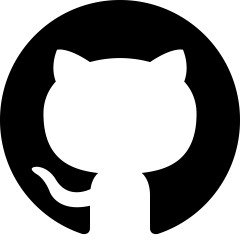
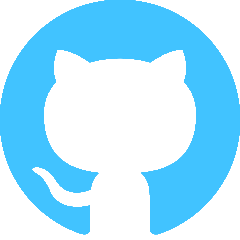
Inicio do meu portfólio de aprendizado

diff --git a/style.css b/style.css
@@ -1,243 +1,47 @@
-@charset "UTF-8";
-@import url('https://fonts.googleapis.com/css2?family=Poppins:ital,wght@0,200;0,400;0,500;0,600;0,700;0,800;0,900;1,300&display=swap');
+@import url('https://fonts.googleapis.com/css2?family=Poppins:ital,wght@0,100;0,300;0,400;0,600;0,700;0,800;0,900;1,100;1,500&display=swap');
 
 *{
     margin: 0;
     padding: 0;
-    box-sizing: border-box;
+    color: white;
     font-family: 'Poppins', sans-serif;
 }
-html{
-    scroll-behavior: smooth;
+body{
+    background-color: #0E1212;
 }
-header{
-    position: absolute;
-    top: 0;
-    left: 0;
+header .logo h4{
+    font-size: 25px;
+    color: #41C3FF;
+}
+
+header .response{
     width: 100%;
+    display: flex;
+    justify-content: center;
+}
+header .container{
+    padding: 0px 40px 0px 40px;
+    height: 60px;
+    width: 1680px;
     display: flex;
     justify-content: space-between;
-    padding: 40px 100px;
-    z-index: 10000;
-    transition: 0.6s;
-}
-header .logo{
-    position: relative;
-    font-weight: 700;
-    color: #40c3ff;
-    text-decoration: none;
-    font-size: 2em;
-    text-transform: uppercase;
-}
-header #toggle{
-    position: relative;
-    width: 30px;
-    height: 30px;
-    cursor: pointer;
-}
-header #toggle:before{
-    content: '';
-    position: absolute;
-    top: 7px;
-    width: 100%;
-    height: 2px;
-    background-color: #fff;
-}
-header #toggle:after{
-    content: '';
-    position: absolute;
-    bottom: 7px;
-    width: 100%;
-    height: 2px;
-    background-color: #fff;
-}
-.banner.active header #toggle::before{
-    top: 50%;
-    left: 50%;
-    transform: translate(-50%, -50%) rotate(45deg);
-}
-.banner.active header #toggle::after{
-    top: 50%;
-    left: 50%;
-    transform: translate(-50%, -50%) rotate(-45deg);
-}
-.banner{
-    position: relative;
-    width: 100%;
-    min-height: 100vh;
-    padding: 100px;
-    background: url(imagens/background2.jpg);
-    background-size: cover;
-    display: flex;
     align-items: center;
-    transition: 0.5s;
-    z-index: 2;
 }
-.banner.active{
-    transform: translate(-400px);
-}
-.sobre img{
-    border-radius: 10px;
-}
-.sobre{
-    position: relative;
-    width: 100%;
-    min-height: 100vh;
-    padding: 50px;
-    background: url(imagens/bg-sobremim.jpg);
-    background-size: cover;
+header ul{
     display: flex;
+    justify-content: space-between;
     align-items: center;
-    transition: 0.5s;
-    z-index: 2;
+    width: 500px;
+    list-style-type: none;
 }
-.sobre{
-    color: #000;
-    margin-left: auto;
-    margin-right: auto;
+header img{
+    width: 25px;
+    height: 25px;
 }
-#sobreimg1{
-    margin: 0 30px 0 0;
-    float: left;
-    width: 450px;
-}
-.content2{
-    margin: auto;
-    max-width: 800px;
-    text-align: justify;
-    display: inline;
-}
-.content2txt{
-    margin-top: 20px;
-} 
-#navigation{
-    position: fixed;
-    top: 0;
-    right: 0;
-    width: 400px;
-    height: 100vh;
-    background: #40c3ff;
-    z-index: 1;
-    display: grid;
-    place-items: center;
-    transition: 0.5s;
-}
-#navigation.active{
-    right: 0;
-}
-#navigation ul{
-    position: relative;
-    display: flex;
-    flex-direction: column;
-}
-#navigation ul li{
-    list-style: none;
-}
-#navigation ul li a{
-    color: #fff;
+
+header ul li a{
     text-decoration: none;
-    display: inline-block;
-    font-size: 2em;
-    font-weight: 600;
-    text-transform: uppercase;
 }
-.content{
-    max-width: 600px;
-}
-.content h2{
-    color: #fff;
-    font-size: 2.5em;
-}
-.content h2 span{
-    color: #40c3ff;
-    font-size: 1.2em;
-}
-.content p{
-    font-size: 1.2em;
-    color: #fff;
-    font-weight: 300;
-}
-.content a{
-    position: relative;
-    display: inline-block;
-    margin-top: 20px;
-    background: #fff;
-    color: black;
-    padding: 10px 30px;
-    text-decoration: none;
-    font-size: 1.2em;
-    font-weight: 500;
-}
-.sci{
-    position: absolute;
-    display: flex;
-    flex-direction: column;
-    right: 100px;
-}
-.sci li{
-    list-style: none;
-}
-.sci li a{
-    position: relative;
-    display: grid;
-    place-items: center;
-    width: 50px;
-    height: 50px;
-    text-decoration: none;
-    border: 1px solid #fff;
-    margin: 10px 0 0;
-}
-.sci li a:hover{
-    background: #fff;
-}
-.sci li a img{
-    max-width: 20px;
-    filter: invert(1);
-}
-@media (max-width: 767px){
-    .content {
-        max-width: 200px;
-    }
-    .content p{
-        text-align: left;
-    }
-    .mediatype{
-        height: 100px;
-    }
-    #sobreimg1{
-        max-width: 230px;
-    }
-    header{
-        padding: 20px 50px;
-    }
-    .banner {
-        padding: 100px 50px 150px;
-    }
-    .banner h2{
-        font-size: 1.8em;
-    }
-    .banner .content a,
-    .banner .content p{
-        font-size: 1em;
-    }
-    .banner.active{
-        transform: translate(-250px);
-    }
-    #navigation{
-        width: 250px;
-    }
-    #navigation ul li a{
-        font-size: 1.5em;
-        margin: 5px 0;
-    }
-    .sci{
-        position: absolute;
-        bottom: 50px;
-        right: initial;
-        flex-direction: row;
-    }
-    .sci li a{
-        margin: initial;
-        margin-right: 10px;
-    }
+header ul li a:hover{
+    color: #41C3FF;
 }

diff --git a/index.html b/index.html
@@ -1,80 +1,31 @@
 <!DOCTYPE html>
-<html lang="en">
+<html lang="pt-br">
 <head>
     <meta charset="UTF-8">
     <meta http-equiv="X-UA-Compatible" content="IE=edge">
     <meta name="viewport" content="width=device-width, initial-scale=1.0">
-    <meta name="description" content="meu portfólio pessoal onde procuro demonstrar minhas habilidades e falar um pouco sobre mim.">
-    <title>MarkosComK</title>
     <link rel="stylesheet" href="style.css">
-    <link rel="shortcut icon" href="imagens/favicon.ico" type="image/x-icon">
+    <link rel="stylesheet" href="media.css">
+    <title>Markos Com K</title>
 </head>
 <body>
-    <section class="banner" id="sec">
-        <header>
-            <a href="#" class="logo">&lt;MK&gt;</a>
-            <div id="toggle" onclick="toggle()"></div>
-        </header>
-        <div class="content">
-            <h2>Olá, Mundo! <br> Eu sou <div class="mediatype"><span>&lt;</span><span class="type"></span><span>&gt;</span></div></h2>
-                <p>
-                    Lorem ipsum dolor sit amet consectetur adipisicing elit. Recusandae harum iste, molestiae provident qui soluta perspiciatis saepe obcaecati deleniti, vero corrupti reiciendis distinctio ut esse iusto omnis id sit? Fugit.
-                </p>
-            <a href="#sob">Saiba mais</a>
-        </div>
-        <ul class="sci">
-            <li><a href="https://github.com/MarkosComK" target="_blank"><img src="imagens/githubicon.png"></a></li>
-            <li><a href="https://www.instagram.com/" target="_blank"><img src="imagens/igicon.png"></a></li>
-            <li><a href="https://www.linkedin.com/in/markos-soares-0892631a3/" target="_blank"><img src="imagens/linkedinicon.png"></a></li>
-        </ul>
-    </section>
-    <section class="sobre" id="sob">
-        <div class="content2">
-            <img src="imagens/sobre-img1.jpg" alt="" id="sobreimg1" onload="trocarimg()">
-            <div class="content2txt">
-                <h2>Sobre mim</h2>
-                <br>
-                <p>
-                    Lorem, ipsum dolor sit amet consectetur adipisicing elit. Animi, dolore cupiditate tempora minus vitae repellendus molestias, velit sint consectetur aliquam nihil officiis modi officia, cumque provident iure voluptatem! Aut, nulla.
-                </p>
-                <br>
-                <p>
-                    Lorem ipsum dolor sit amet consectetur adipisicing elit. Explicabo assumenda doloribus corporis molestias tempore accusamus eos similique quo soluta. Eos reprehenderit commodi perferendis molestias autem sequi, eius in laborum id.
-                </p>
-                <br>
-                <p>
-                    Lorem ipsum, dolor sit amet consectetur adipisicing elit. Facilis commodi cum eum cupiditate! Voluptates eligendi praesentium, sequi maiores doloribus non mollitia harum cumque sapiente? Dolores aliquam eligendi minima a velit.
-                </p>
+    <!-- Barra de navegação -->
+    <header>
+        <div class="response">
+            <div class="container">
+                <div class="logo">
+                    <h4>&lt;K&gt;</h4>
+                </div>
+                <ul class="links">
+                    <li><a href="#">Inicio</a></li>
+                    <li><a href="#">Sobre mim</a></li>
+                    <li><a href="#">Projetos</a></li>
+                    <li><a href="#">Contato</a></li>
+                    <li><a href="#"><img src="imagens/githubicon.png" alt=""></a></li>
+                    <li><a href="#"><img src="imagens/linkedinicon.png" alt=""></a></li>
+                </ul>
             </div>
         </div>
-    </section>
-    <div id="navigation">
-        <ul>
-            <li><a href="#">Início</a></li>
-            <li><a href="#sob" onclick="toggle()">Sobre mim</a></li>
-            <li><a href="#">Trabalhos</a></li>
-            <li><a href="#">Portfolio</a></li>
-            <li><a href="#">Contato</a></li>
-        </ul>
-    </div>
-    <script src="typed.min.js"></script>
-    <script>
-        var typed = new Typed('.type', {
-            strings: ['Markos Vinicius', 'Designer', 'Desenvolvedor', 'Estudante', 'Programador'],
-            typeSpeed: 60,
-            backSpeed: 60,
-            loop:true,
-        });
-    </script>
-    <script type="text/javascript">
-
-           function toggle(){
-            var sec = document.getElementById('sec')
-            var nav = document.getElementById('navigation')
-            sec.classList.toggle('active')
-            nav.classList.toggle('active')
-        }
-
-    </script>
+    </header>
 </body>
 </html>

diff --git a/media.css b/media.css
@@ -1,0 +1,8 @@
+@media only screen and (max-width: 600px) {
+    body{
+        background-color: rgb(61, 61, 61);
+    }
+    header .container{
+        padding: 0px 80px 0 80px;
+    }
+  }

diff --git a/script.js b/script.js
@@ -1,0 +1,4 @@
+function hover(){
+    li = document.getElementById("li1")
+    li.style.color = "blue"
+}
